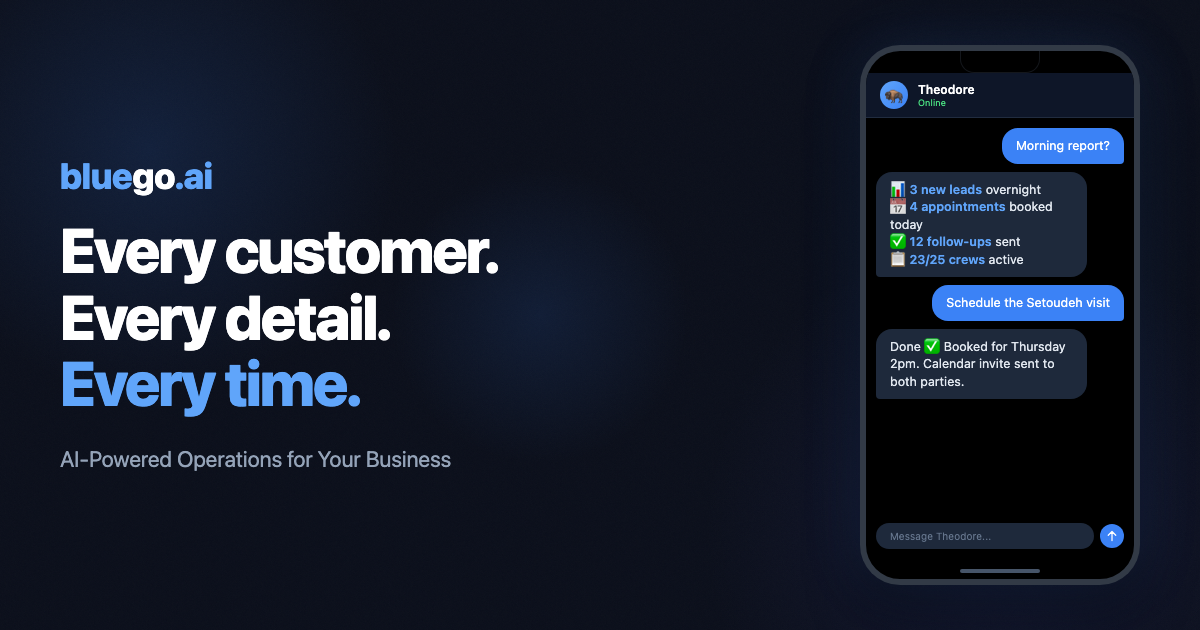
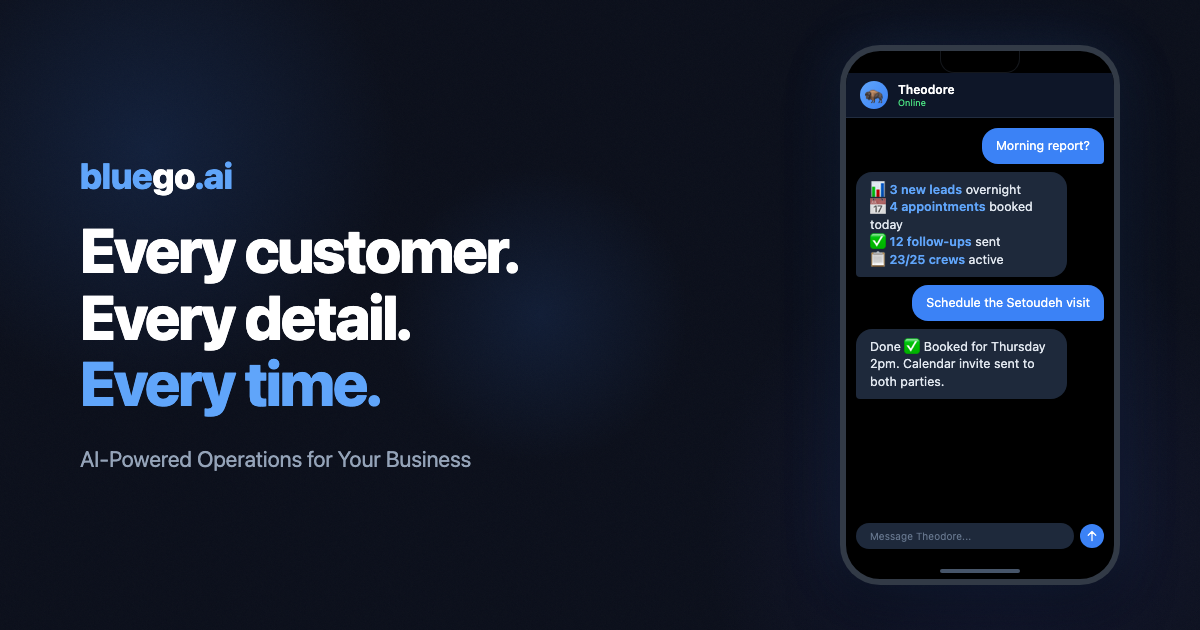
OG: more side padding

diff --git a/og-generator.html b/og-generator.html
@@ -49,7 +49,7 @@
     display: flex;
     width: 100%;
     height: 100%;
-    padding: 40px 60px;
+    padding: 40px 80px;
     align-items: center;
     justify-content: space-between;
   }
